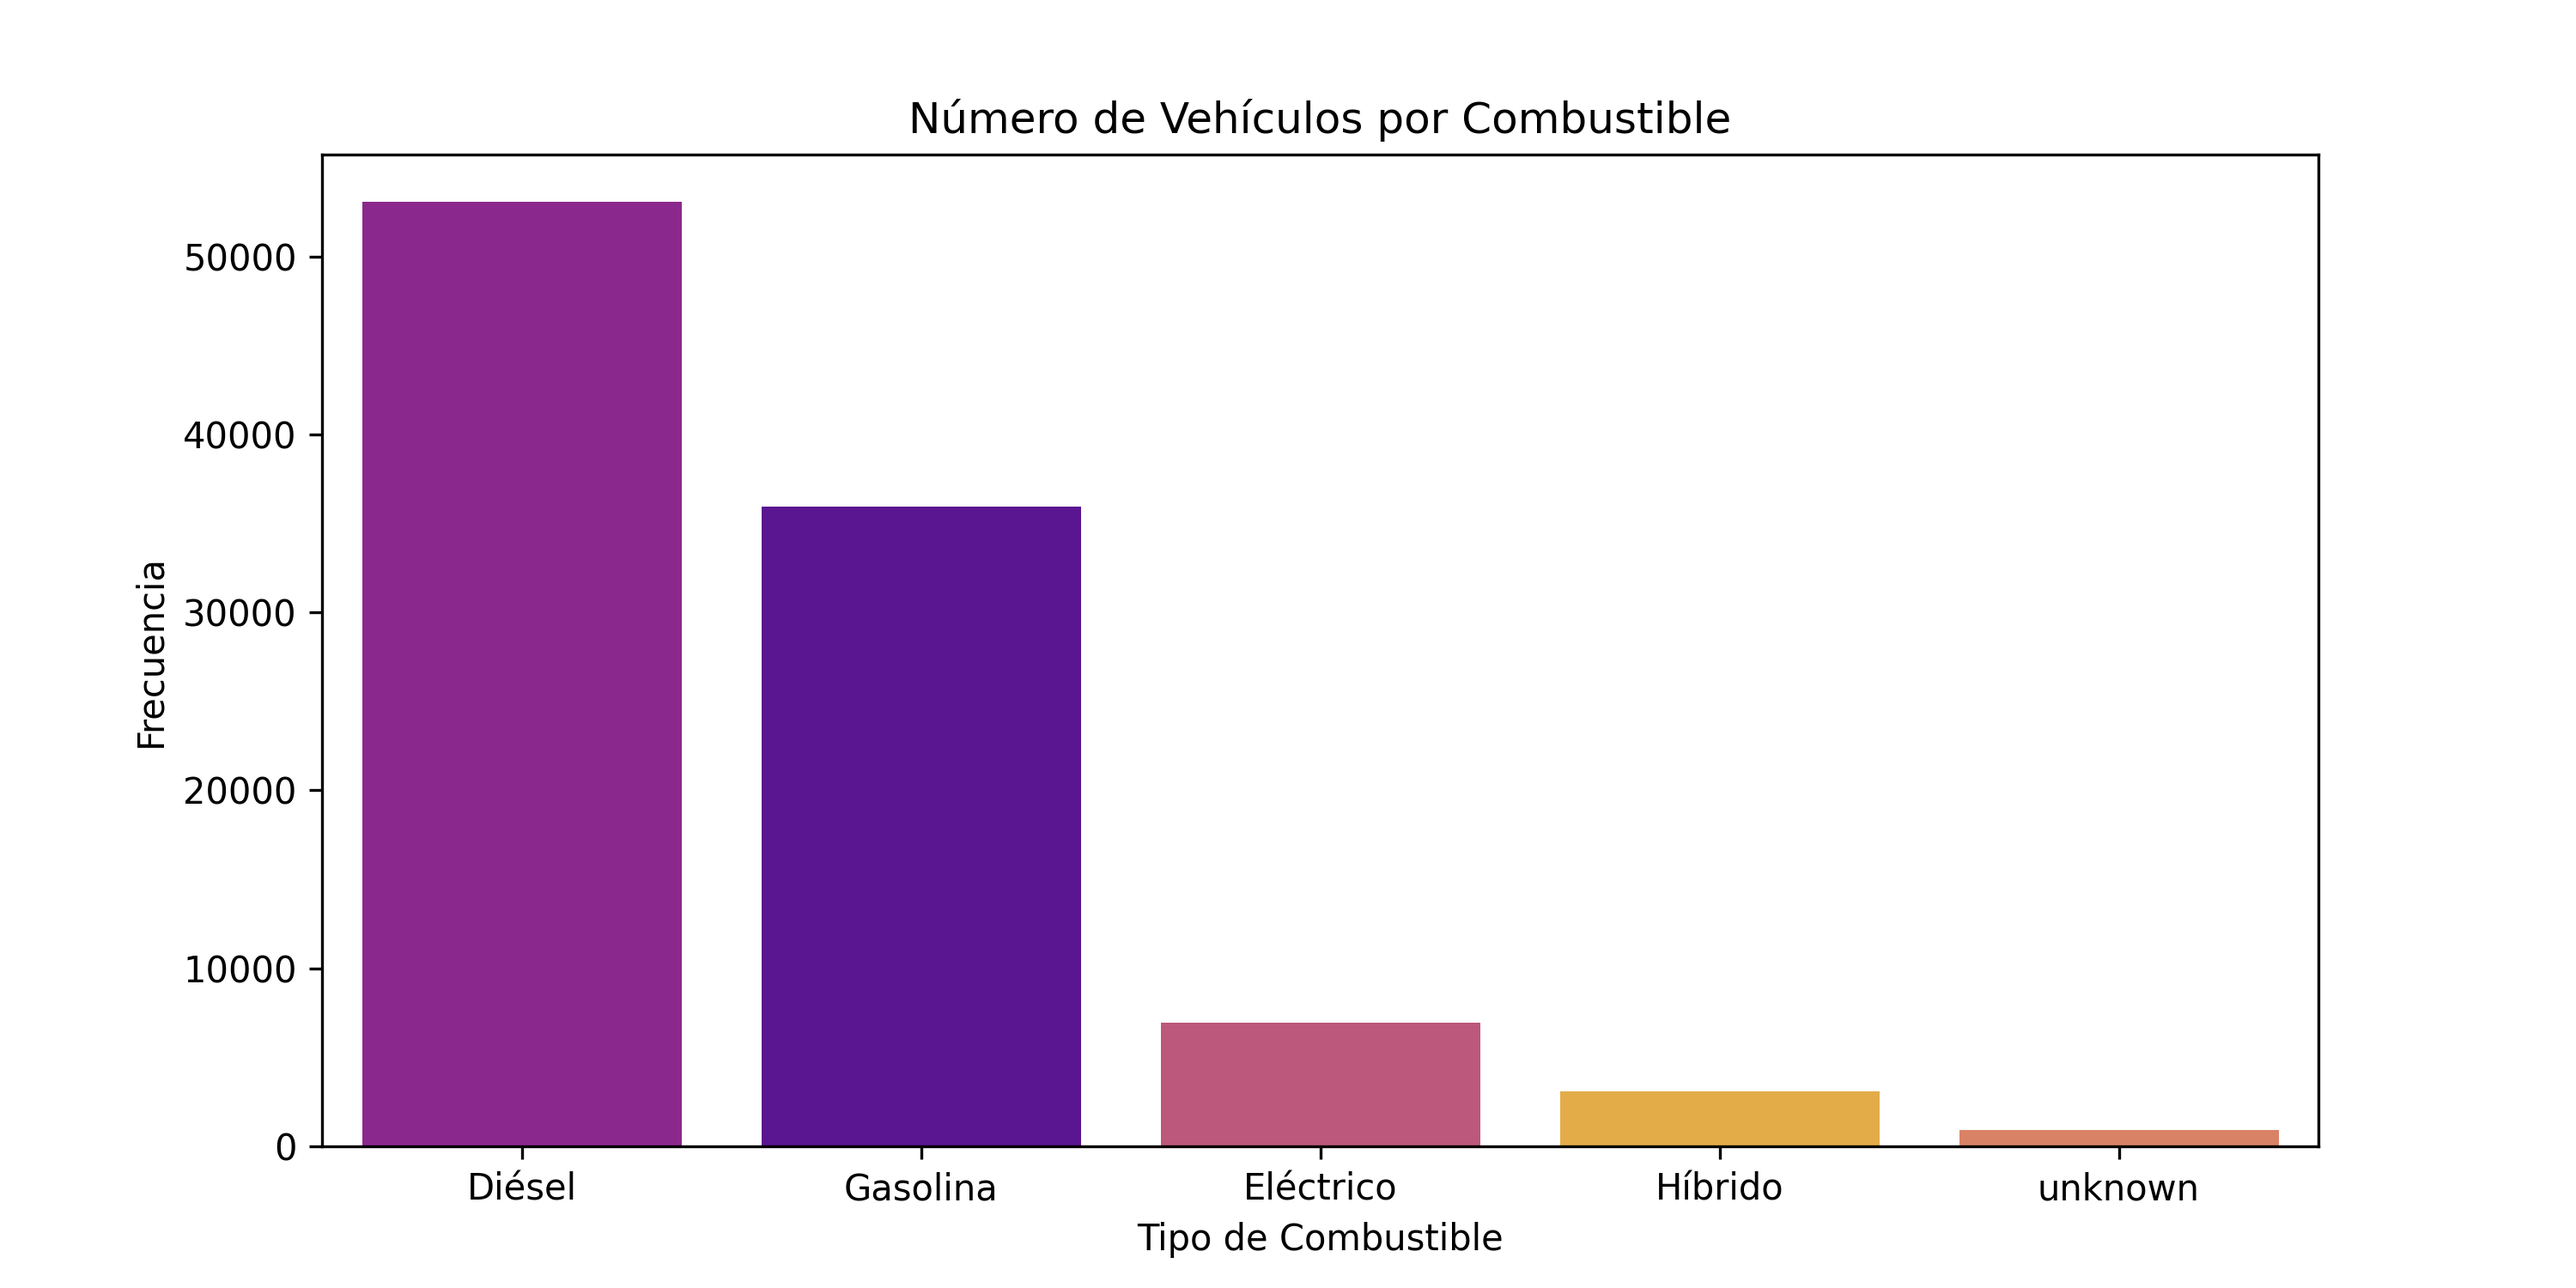
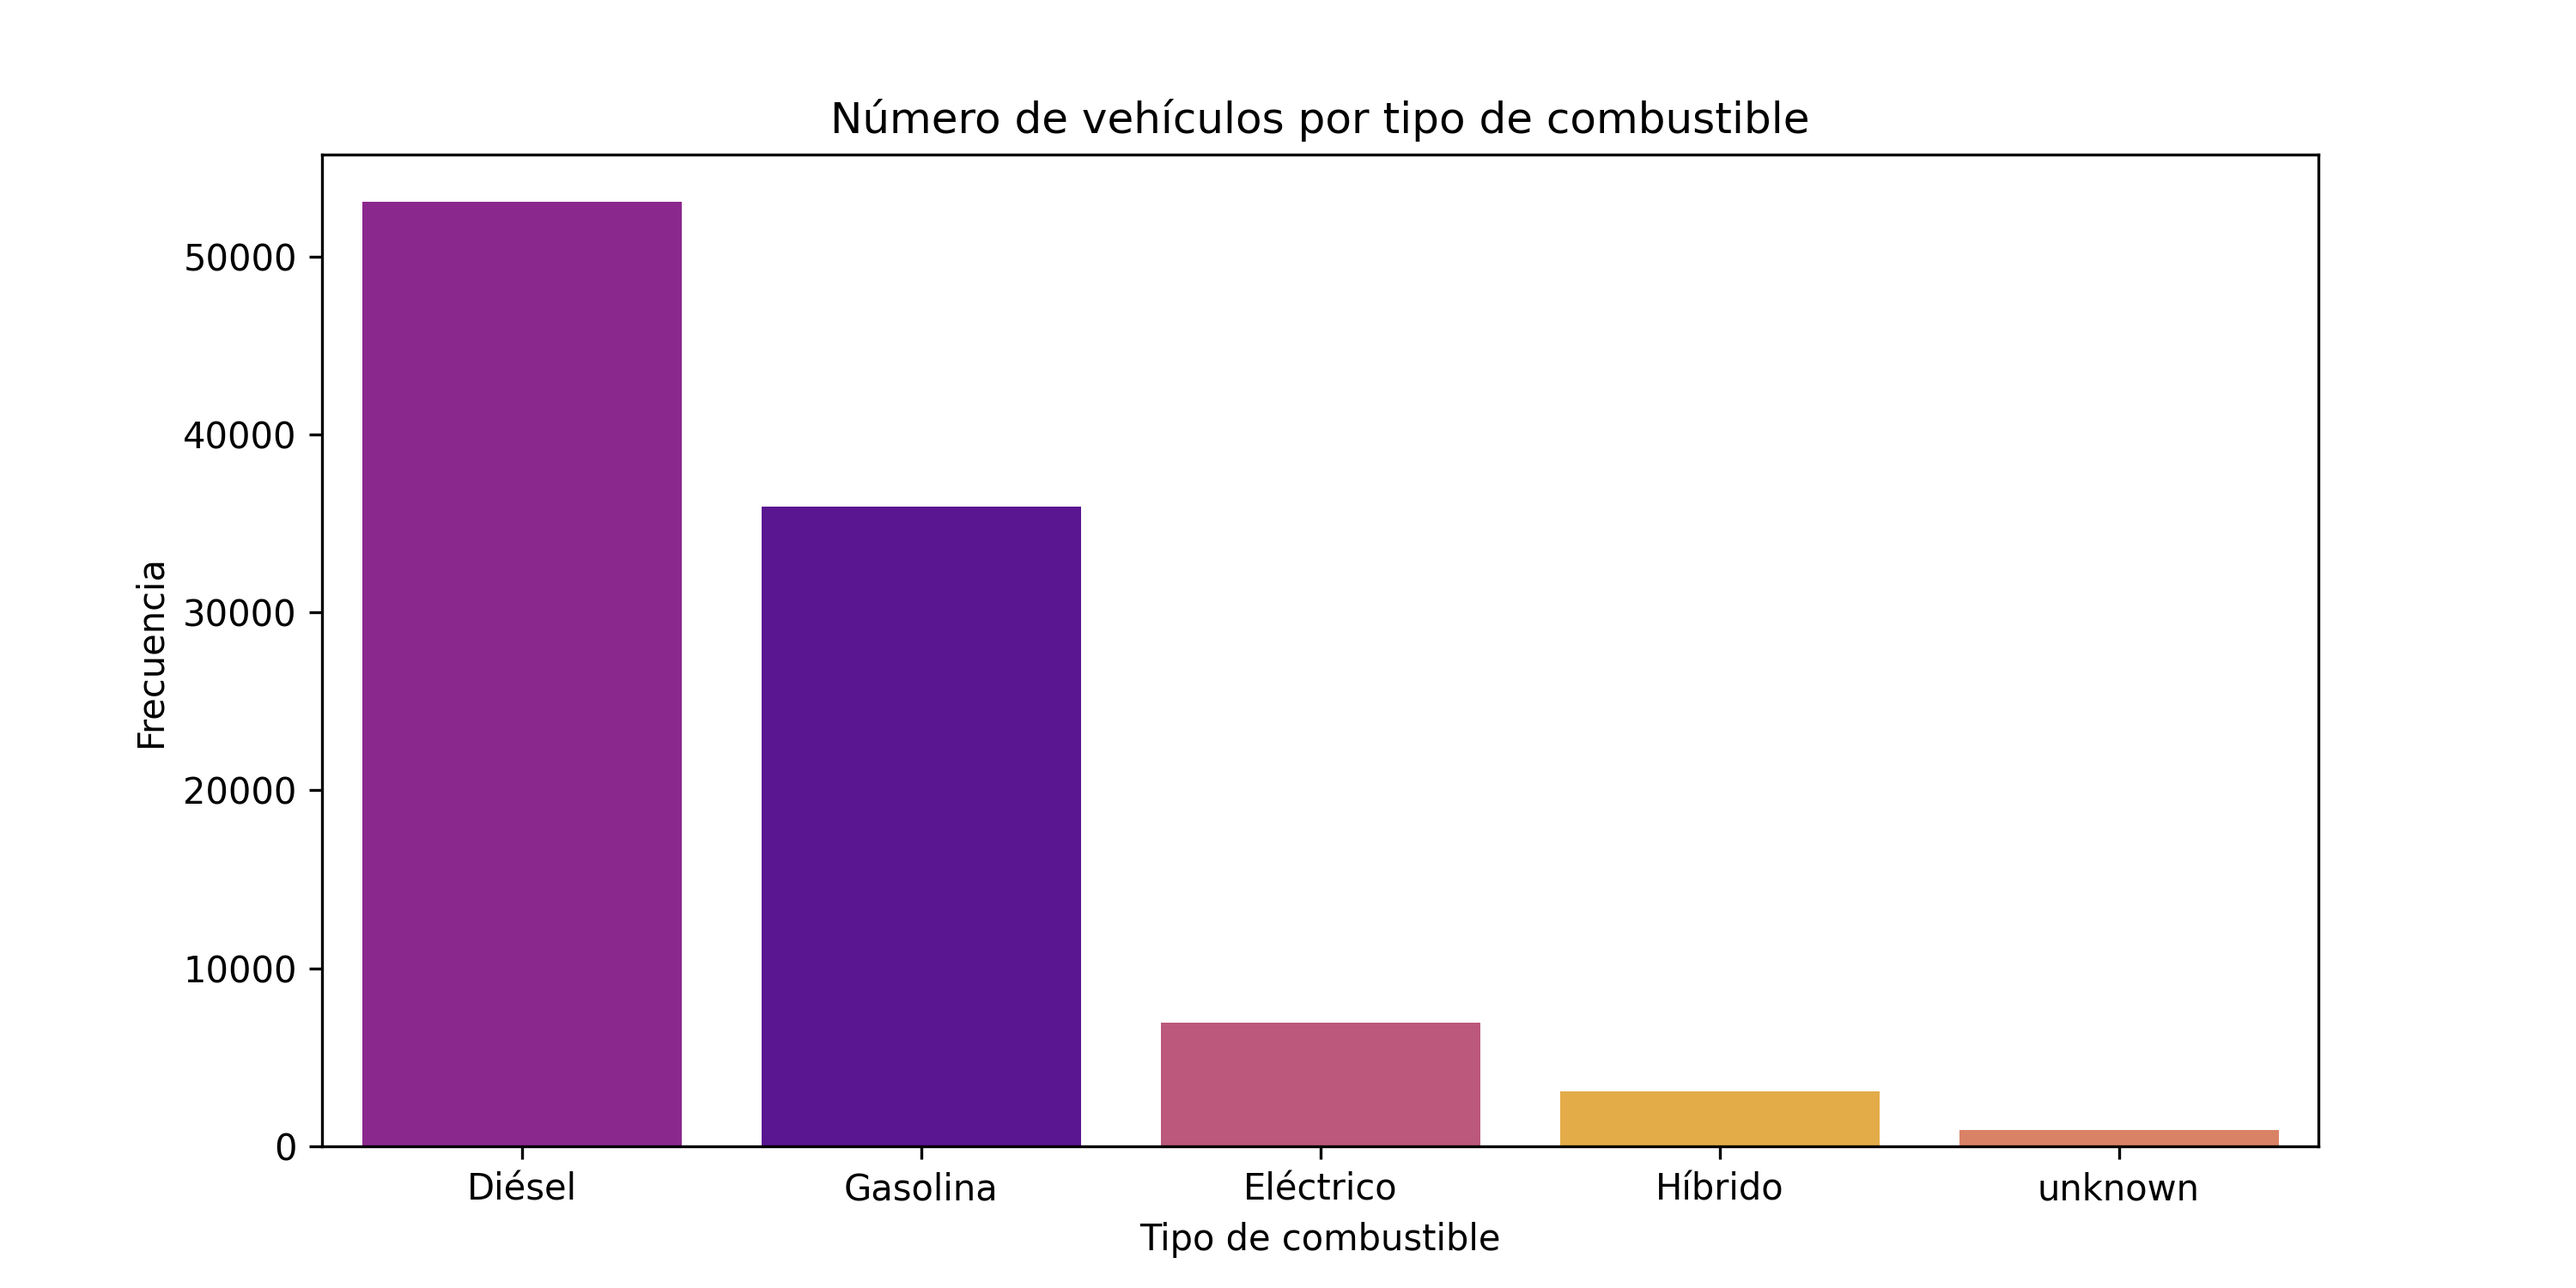
Actualizar títulos de gráficos y rutas de archivos EDA y modelo
Se estandarizan los títulos de los gráficos en analisis/main.py y se actualizan las rutas y nombres de los archivos generados para reflejar mejor su contenido. En modelo-predictivo-precio.py se renombra la variable de precio predicho a estimado y se actualiza el nombre y leyenda del gráfico correspondiente. Se agregan y eliminan imágenes de gráficos para mantener consistencia con los cambios en el código.

Changed region(s): [[0.341, 0.0613, 0.713, 0.1227], [0.434, 0.9507, 0.589, 0.9813]]

diff --git a/analisis/main.py b/analisis/main.py
@@ -32,7 +32,7 @@ try:
     # Distribución de Precios
     plt.figure(figsize=(10, 5))
     sns.histplot(df['price'], kde=True, bins=50, color='skyblue')
-    plt.title('Distribución de Precios')
+    plt.title('Distribución de precios')
     plt.xlabel('Precio')
     plt.ylabel('Frecuencia')
     plt.savefig('../graficos/eda/distribucion_precios.png', dpi=300)
@@ -41,7 +41,7 @@ try:
     # Distribución de Kilometraje
     plt.figure(figsize=(10, 5))
     sns.histplot(df['kms'], bins=100, kde=False, color='salmon')
-    plt.title('Distribución de Kilometraje')
+    plt.title('Distribución del kilometraje')
     plt.xlabel('Kilómetros')
     plt.ylabel('Frecuencia')
     plt.savefig('../graficos/eda/distribucion_kilometraje.png', dpi=300)
@@ -50,7 +50,7 @@ try:
     # Distribución de Potencia
     plt.figure(figsize=(10, 5))
     sns.histplot(df['power'], bins=40, color='green')
-    plt.title('Distribución de Potencia (CV)')
+    plt.title('Distribución de potencia (CV)')
     plt.xlabel('Potencia')
     plt.ylabel('Frecuencia')
     plt.savefig('../graficos/eda/distribucion_potencia.png', dpi=300)
@@ -59,7 +59,7 @@ try:
     # Distribución de Año de Fabricación
     plt.figure(figsize=(10, 5))
     sns.histplot(df['year'], kde=False, color='gold', discrete=True)
-    plt.title('Distribución de Año de Fabricación')
+    plt.title('Distribución de los años de fabricación')
     plt.xlabel('Año')
     plt.ylabel('Frecuencia')
     plt.savefig('../graficos/eda/distribucion_anno_fabricacion.png', dpi=300)
@@ -69,7 +69,7 @@ try:
     # Número de Vehículos por Marca
     plt.figure(figsize=(12, 10))
     sns.countplot(y='make', data=df, order=df['make'].value_counts().index, hue='make', palette='viridis', legend=False)
-    plt.title('Número de Vehículos por Marca')
+    plt.title('Número de vehículos por marca')
     plt.xlabel('Frecuencia')
     plt.ylabel('Marca')
     plt.savefig('../graficos/eda/numero_vehiculos_por_marca.png', dpi=300)
@@ -78,8 +78,8 @@ try:
     # Número de Vehículos por Combustible
     plt.figure(figsize=(10, 5))
     sns.countplot(x='fuel', data=df, order=df['fuel'].value_counts().index, hue='fuel', palette='plasma', legend=False)
-    plt.title('Número de Vehículos por Combustible')
-    plt.xlabel('Tipo de Combustible')
+    plt.title('Número de vehículos por tipo de combustible')
+    plt.xlabel('Tipo de combustible')
     plt.ylabel('Frecuencia')
     plt.savefig('../graficos/eda/numero_vehiculos_por_combustible.png', dpi=300)
     plt.show()
@@ -87,13 +87,12 @@ try:
     # Número de Vehículos por Tipo de Transmisión
     plt.figure(figsize=(10, 5))
     sns.countplot(x='shift', data=df, order=df['shift'].value_counts().index, hue='shift', palette='magma', legend=False)
-    plt.title('Número de Vehículos por Tipo de Transmisión')
+    plt.title('Número de vehículos por tipo de transmisión')
     plt.xlabel('Transmisión')
     plt.ylabel('Frecuencia')
     plt.savefig('../graficos/eda/numero_vehiculos_por_transmision.png', dpi=300)
     plt.show()
 
-    # Análisis bivariado
     # Relación entre variables numéricas
     # Calcular la matriz de correlación solo para columnas numéricas
     corr_matrix = df[['price', 'kms', 'power', 'year']].corr()
@@ -101,14 +100,15 @@ try:
     # Visualizar la matriz de correlación con un mapa de calor
     plt.figure(figsize=(8, 6))
     sns.heatmap(corr_matrix, annot=True, cmap='coolwarm', fmt=".2f")
-    plt.title('Mapa de Calor de Correlación de Variables Numéricas')
+    plt.title('Mapa de calor de correlación de las variables numéricas')
+    plt.savefig('../graficos/eda/mapa_calor_correlacion.png', dpi=300)
     plt.show()
 
     plt.figure(figsize=(12, 6))
     sns.barplot(x='fuel', y='price', hue='shift', data=df, estimator='mean', errorbar='sd', palette='pastel')
-    plt.title('Precio Medio según Combustible y Transmisión')
-    plt.xlabel('Tipo de Combustible')
-    plt.ylabel('Precio Medio')
+    plt.title('Precio medio según combustible y transmisión')
+    plt.xlabel('Tipo de combustible')
+    plt.ylabel('Precio medio')
     plt.legend(title='Transmisión')
     plt.tight_layout()
     plt.savefig('../graficos/eda/precio_medio_combustible_transmision.png', dpi=300)
@@ -135,9 +135,9 @@ try:
                   alpha=0.8,
                   color=sns.color_palette("pink", len(media_precio_por_marca)))
 
-    plt.title('Precio Medio de Venta por Marca', fontsize=18)
+    plt.title('Precio medio por marca', fontsize=18)
     plt.axis('off')
-    plt.savefig('../graficos/eda/precio_medio_venta_por_marca.png', dpi=300)
+    plt.savefig('../graficos/eda/precio_medio_por_marca.png', dpi=300)
     plt.show()
 
     # Fecha media de fabricación de los vehículos por marca
@@ -148,9 +148,9 @@ try:
     # Crear el gráfico de barras vertical
     plt.figure(figsize=(16, 8))
     barplot = sns.barplot(x='make', y='year', hue='make', data=media_anno_fabricacion, palette='bright', legend=False)
-    plt.title('Fecha Media de Fabricación por Marca de Vehículo', fontsize=16)
+    plt.title('Fecha media de fabricación por marca de vehículo', fontsize=16)
     plt.xlabel('Marca', fontsize=11)
-    plt.ylabel('Año Medio de Fabricación', fontsize=12)
+    plt.ylabel('Año medio de fabricación', fontsize=12)
     plt.xticks(rotation=45, ha='right')
 
     plt.ylim(bottom=media_anno_fabricacion['year'].min() - 1, top=media_anno_fabricacion['year'].max() + 1)
@@ -182,9 +182,9 @@ try:
 
     barplot = sns.barplot(x='count', y='modeloEntero', hue='modeloEntero', data=top_10_models, palette='rocket', legend=False)
 
-    plt.title('Top 10 Modelos de Vehículos más Frecuentes en Venta', fontsize=16)
-    plt.xlabel('Número de Vehículos en Venta', fontsize=12)
-    plt.ylabel('Modelo del Vehículo', fontsize=12)
+    plt.title('Top 10 modelos de vehículos más frecuentes en venta', fontsize=16)
+    plt.xlabel('Número de vehículos en venta', fontsize=12)
+    plt.ylabel('Modelo del vehículo', fontsize=12)
 
     for index, value in enumerate(top_10_models['count']):
         plt.text(value, index, f' {value}', va='center')

diff --git a/analisis/modelo-predictivo-precio.py b/analisis/modelo-predictivo-precio.py
@@ -9,40 +9,40 @@ from sklearn.metrics import mean_squared_error, r2_score
 import numpy as np
 from xgboost import XGBRegressor
 
-# === Cargar los datos ===
-df = pd.read_csv('../datasets/processed/dataset-vehiculos-limpio.csv')  # Reemplaza con tu ruta si es diferente
+# Cargar los datos
+df = pd.read_csv('../datasets/processed/dataset-vehiculos-limpio.csv')
 
-# === Separar variables predictoras y target ===
+# Separar variables predictoras y target
 X = df.drop(columns=['price'])
 y = df['price']
 
-# === Identificar variables categóricas y numéricas ===
+# Identificar variables categóricas y numéricas
 cat_features = X.select_dtypes(include='object').columns.tolist()
 num_features = X.select_dtypes(exclude='object').columns.tolist()
 
-# === Preprocesamiento: codificación one-hot ===
+# Preprocesamiento: codificación one-hot
 preprocessor = ColumnTransformer([
     ('cat', OneHotEncoder(handle_unknown='ignore', sparse_output=False), cat_features)
 ], remainder='passthrough')
 
-# === Pipeline con XGBoost (GPU) ===
+# Pipeline con XGBoost (GPU)
 model = Pipeline([
     ('preprocessing', preprocessor),
     ('regressor', XGBRegressor(tree_method='hist', device='cuda', n_estimators=1000, random_state=42))
 ])
 
-# === División de datos ===
+# División de datos
 X_train, X_test, y_train, y_test = train_test_split(X, y, test_size=0.2, random_state=42)
 
-# === Entrenamiento ===
+# Entrenamiento
 model.fit(X_train, y_train)
 
-# === Evaluación ===
+# Evaluación
 y_pred = model.predict(X_test)
 print("RMSE:", np.sqrt(mean_squared_error(y_test, y_pred)))
 print("R²:", r2_score(y_test, y_pred))
 
-# === Importancia de variables originales ===
+# Importancia de variables originales
 # Agrupar importancias por variable original (no codificada)
 onehot = model.named_steps['preprocessing'].named_transformers_['cat']
 encoded_cat_names = onehot.get_feature_names_out(cat_features)
@@ -67,7 +67,7 @@ feat_df = pd.DataFrame({
 })
 feat_importance_df = feat_df.groupby('Variables').sum().sort_values(by='Importancia en el precio', ascending=False).reset_index()
 
-# === Gráfico de importancia ===
+# Gráfico de importancia
 plt.figure(figsize=(10, 6))
 sns.barplot(data=feat_importance_df.head(15), x='Importancia en el precio', y='Variables')
 plt.title("Importancia para predecir el precio")
@@ -75,22 +75,22 @@ plt.tight_layout()
 plt.savefig('../graficos/modelo-predictivo/importancia_variables.png', dpi=300)
 plt.show()
 
-# === Comparación precios reales vs. predichos por marca ===
+# Comparación precios reales vs. estimados por marca
 X_test_copy = X_test.copy()
 X_test_copy['precio_real'] = y_test
-X_test_copy['precio_predicho'] = y_pred
+X_test_copy['precio_estimado'] = y_pred
 
 # Agrupar por marca y comparar medias
-grouped = X_test_copy.groupby('make')[['precio_real', 'precio_predicho']].mean().sort_values(by='precio_real', ascending=False)
+grouped = X_test_copy.groupby('make')[['precio_real', 'precio_estimado']].mean().sort_values(by='precio_real', ascending=False)
 
 # Gráfico de comparación completo
 plt.figure(figsize=(14, 8))
 ax = grouped.plot(kind='bar', figsize=(14, 8))
 plt.ylabel("Precio medio (€)")
-plt.title("Comparación del precio real vs. predicho por marca")
+plt.title("Comparación del precio real vs. estimado por marca")
 plt.xticks(rotation=90)
 plt.tight_layout()
-plt.legend(title='Precio', labels=['Real', 'Predicho'])
-plt.savefig('../graficos/modelo-predictivo/precio_real_vs_predicho_por_marca.png', dpi=300)
+plt.legend(title='Precio', labels=['Real', 'Estimado'])
+plt.savefig('../graficos/modelo-predictivo/precio_real_vs_estimado_por_marca.png', dpi=300)
 plt.show()
 
